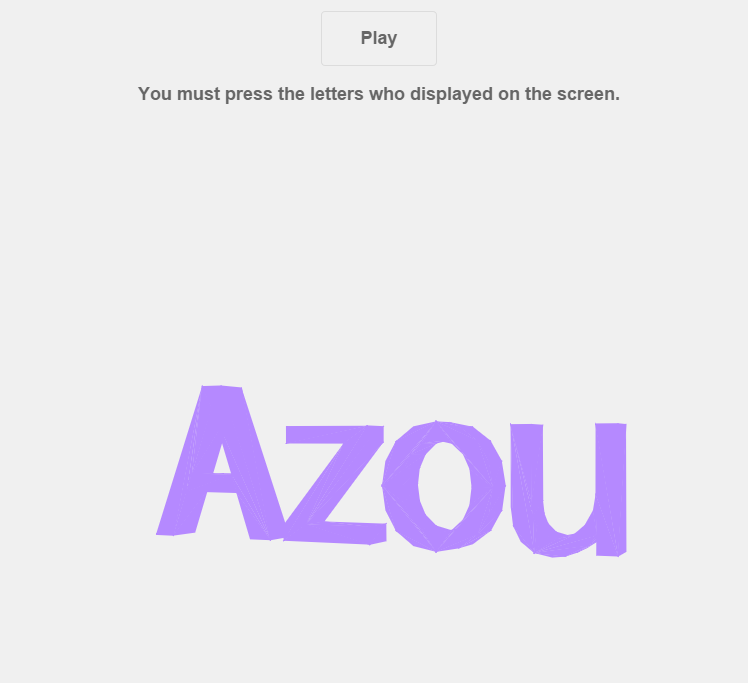
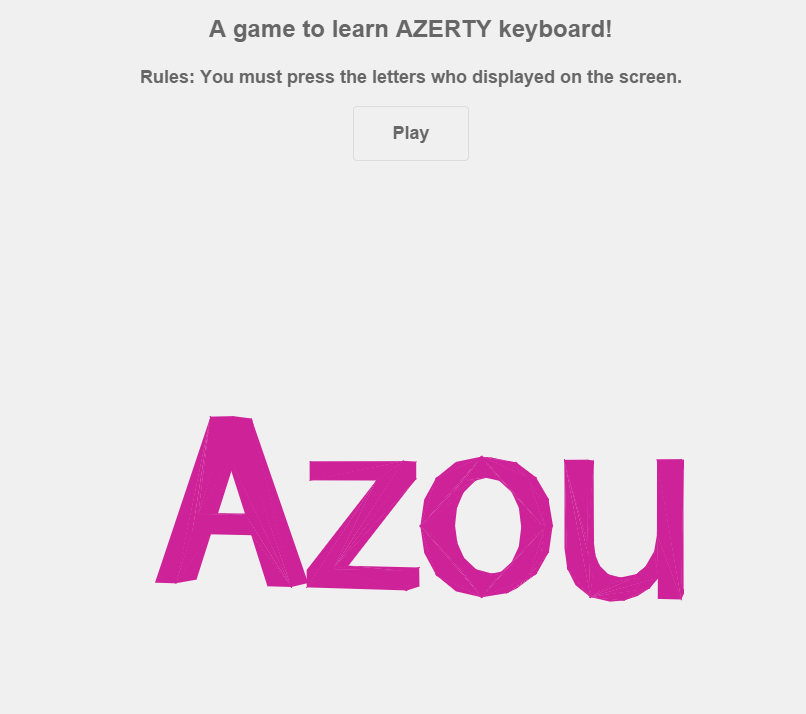
Update CSS and do a beautiful code

Changed region(s): [[0.1845, 0.5534, 0.861, 0.8609], [0.1537, 0.0922, 0.861, 0.2152], [0.246, 0.0307, 0.7687, 0.0615]]

diff --git a/styles/styles.css b/styles/styles.css
@@ -1,1 +1,1 @@
-.letter{position:absolute;width:30px;height:30px;font:700 14px verdana;text-align:center;padding:10px}#score #countdown{right:50px;top:0;position:absolute}#score{font-size:46px;color:#f0f0f0;font-family:futura-pt,sans-serif;position:absolute;width:100%;height:50px;background:#000;left:0;right:0;top:0;padding-left:10px;padding-right:10px}#container{margin:51px auto 0;width:800px;height:600px;position:relative;max-width:60em;color:#2c3e50}body{background-color:#f0f0f0;margin:0;overflow:hidden}p.warning{font-size:60px}p{text-align:center;font-family:Arial;font-size:18px;font-weight:700;color:#666}canvas{cursor:pointer}.btn{background-color:transparent;border-radius:4px;border:1px solid #dcdcdc;color:inherit;display:inline-block;cursor:pointer;padding:16px 38px;text-decoration:none}.btn:active{position:relative;top:1px}.fixed{position:fixed;top:0;right:0;left:0}::-moz-selection{background-color:#2c3e50;color:#f0f0f0}::selection{background-color:#2c3e50;color:#f0f0f0}.forkme a{color:#404040;display:block;font:13px Helvetica Neue,Arial,sans-serif;margin:.05em 0 .075em;padding:.6em;text-align:center;text-decoration:none}.forkme{-webkit-transform:rotate(45deg);-ms-transform:rotate(45deg);transform:rotate(45deg);background-color:#FFF;overflow:hidden;position:fixed;z-index:30;width:240px;right:-60px;top:46px;border-style:solid;border-color:#7B7979;text-align:center}@import url(//fonts.googleapis.com/css?family=Open+Sans:400,600,700,300);.sweet-overlay{background-color:rgba(0,0,0,.4);position:fixed;left:0;right:0;top:0;bottom:0;display:none;z-index:1000}.sweet-alert{background-color:#fff;font-family:'Open Sans',sans-serif;width:478px;padding:17px;border-radius:5px;text-align:center;position:fixed;left:50%;top:50%;margin-left:-256px;margin-top:-200px;overflow:hidden;display:none;z-index:2000}@media all and (max-width:540px){.sweet-alert{width:auto;margin-left:0;margin-right:0;left:15px;right:15px}}.sweet-alert h2{color:#575757;font-size:30px;text-align:center;font-weight:600;text-transform:none;position:relative;margin:25px 0;padding:0;line-height:25px;display:block}.sweet-alert p{color:#797979;font-size:16px;text-align:center;font-weight:300;position:relative;margin:0;padding:0;line-height:normal}.sweet-alert button{background-color:#AEDEF4;color:#fff;border:none;box-shadow:none;font-size:17px;font-weight:500;border-radius:5px;padding:10px 32px;margin:26px 5px 0;cursor:pointer}.sweet-alert button:focus{outline:0;box-shadow:0 0 2px rgba(128,179,235,.5),inset 0 0 0 1px rgba(0,0,0,.05)}.sweet-alert button:hover{background-color:#a1d9f2}.sweet-alert button:active{background-color:#81ccee}.sweet-alert button.cancel{background-color:#D0D0D0}.sweet-alert button.cancel:hover{background-color:#c8c8c8}.sweet-alert button.cancel:active{background-color:#b6b6b6}.sweet-alert button.cancel:focus{box-shadow:rgba(197,205,211,.8) 0 0 2px,rgba(0,0,0,.0470588) 0 0 0 1px inset!important}.sweet-alert button::-moz-focus-inner{border:0}.sweet-alert[data-has-cancel-button=false] button{box-shadow:none!important}.sweet-alert .icon{width:80px;height:80px;border:4px solid gray;border-radius:50%;margin:20px auto;padding:0;position:relative;box-sizing:content-box}.sweet-alert .icon.error{border-color:#F27474}.sweet-alert .icon.error .x-mark{position:relative;display:block}.sweet-alert .icon.error .line{position:absolute;height:5px;width:47px;background-color:#F27474;display:block;top:37px;border-radius:2px}.sweet-alert .icon.error .line.left{-webkit-transform:rotate(45deg);-ms-transform:rotate(45deg);transform:rotate(45deg);left:17px}.sweet-alert .icon.error .line.right{-webkit-transform:rotate(-45deg);-ms-transform:rotate(-45deg);transform:rotate(-45deg);right:16px}.sweet-alert .icon.warning{border-color:#F8BB86}.sweet-alert .icon.warning .body{position:absolute;width:5px;height:47px;left:50%;top:10px;border-radius:2px;margin-left:-2px;background-color:#F8BB86}.sweet-alert .icon.warning .dot{position:absolute;width:7px;height:7px;border-radius:50%;margin-left:-3px;left:50%;bottom:10px;background-color:#F8BB86}.sweet-alert .icon.info{border-color:#C9DAE1}.sweet-alert .icon.info::before{content:"";position:absolute;width:5px;height:29px;left:50%;bottom:17px;border-radius:2px;margin-left:-2px;background-color:#C9DAE1}.sweet-alert .icon.info::after{content:"";position:absolute;width:7px;height:7px;border-radius:50%;margin-left:-3px;top:19px;background-color:#C9DAE1}.sweet-alert .icon.success{border-color:#A5DC86}.sweet-alert .icon.success::after,.sweet-alert .icon.success::before{content:'';position:absolute;width:60px;height:120px;background:#fff;-webkit-transform:rotate(45deg)}.sweet-alert .icon.success::before{border-radius:120px 0 0 120px;top:-7px;left:-33px;-webkit-transform:rotate(-45deg);-ms-transform:rotate(-45deg);transform:rotate(-45deg);-webkit-transform-origin:60px 60px;-ms-transform-origin:60px 60px;transform-origin:60px 60px}.sweet-alert .icon.success::after{border-radius:0 120px 120px 0;top:-11px;left:30px;-webkit-transform:rotate(-45deg);-ms-transform:rotate(-45deg);transform:rotate(-45deg);-webkit-transform-origin:0 60px;-ms-transform-origin:0 60px;transform-origin:0 60px}.sweet-alert .icon.success .placeholder{width:80px;height:80px;border:4px solid rgba(165,220,134,.2);border-radius:50%;box-sizing:content-box;position:absolute;left:-4px;top:-4px;z-index:2}.sweet-alert .icon.success .fix{width:5px;height:90px;background-color:#fff;position:absolute;left:28px;top:8px;z-index:1;-webkit-transform:rotate(-45deg);-ms-transform:rotate(-45deg);transform:rotate(-45deg)}.sweet-alert .icon.success .line{height:5px;background-color:#A5DC86;display:block;border-radius:2px;position:absolute;z-index:2}.sweet-alert .icon.success .line.tip{width:25px;left:14px;top:46px;-webkit-transform:rotate(45deg);-ms-transform:rotate(45deg);transform:rotate(45deg)}.sweet-alert .icon.success .line.long{width:47px;right:8px;top:38px;-webkit-transform:rotate(-45deg);-ms-transform:rotate(-45deg);transform:rotate(-45deg)}.sweet-alert .icon.custom{background-size:contain;border-radius:0;border:none;background-position:center center;background-repeat:no-repeat}@-webkit-keyframes showSweetAlert{0%{transform:scale(0.7);-webkit-transform:scale(0.7)}45%{transform:scale(1.05);-webkit-transform:scale(1.05)}80%{-webkit-transform:scale(0.95);transform:scale(0.95);-webkit-tranform:scale(0.95)}100%{transform:scale(1);-webkit-transform:scale(1)}}@keyframes showSweetAlert{0%{transform:scale(0.7);-webkit-transform:scale(0.7)}45%{transform:scale(1.05);-webkit-transform:scale(1.05)}80%{-webkit-transform:scale(0.95);transform:scale(0.95);-webkit-tranform:scale(0.95)}100%{transform:scale(1);-webkit-transform:scale(1)}}@-webkit-keyframes hideSweetAlert{0%{transform:scale(1);-webkit-transform:scale(1)}100%{transform:scale(0.5);-webkit-transform:scale(0.5)}}@keyframes hideSweetAlert{0%{transform:scale(1);-webkit-transform:scale(1)}100%{transform:scale(0.5);-webkit-transform:scale(0.5)}}.showSweetAlert{-webkit-animation:showSweetAlert .3s;animation:showSweetAlert .3s}.hideSweetAlert{-webkit-animation:hideSweetAlert .2s;animation:hideSweetAlert .2s}@-webkit-keyframes animateSuccessTip{0%,54%{width:0;left:1px;top:19px}70%{width:50px;left:-8px;top:37px}84%{width:17px;left:21px;top:48px}100%{width:25px;left:14px;top:45px}}@keyframes animateSuccessTip{0%,54%{width:0;left:1px;top:19px}70%{width:50px;left:-8px;top:37px}84%{width:17px;left:21px;top:48px}100%{width:25px;left:14px;top:45px}}@-webkit-keyframes animateSuccessLong{0%,65%{width:0;right:46px;top:54px}84%{width:55px;right:0;top:35px}100%{width:47px;right:8px;top:38px}}@keyframes animateSuccessLong{0%,65%{width:0;right:46px;top:54px}84%{width:55px;right:0;top:35px}100%{width:47px;right:8px;top:38px}}@-webkit-keyframes rotatePlaceholder{0%,5%{transform:rotate(-45deg);-webkit-transform:rotate(-45deg)}100%,12%{transform:rotate(-405deg);-webkit-transform:rotate(-405deg)}}@keyframes rotatePlaceholder{0%,5%{transform:rotate(-45deg);-webkit-transform:rotate(-45deg)}100%,12%{transform:rotate(-405deg);-webkit-transform:rotate(-405deg)}}.animateSuccessTip{-webkit-animation:animateSuccessTip .75s;animation:animateSuccessTip .75s}.animateSuccessLong{-webkit-animation:animateSuccessLong .75s;animation:animateSuccessLong .75s}.icon.success.animate::after{-webkit-animation:rotatePlaceholder 4.25s ease-in;animation:rotatePlaceholder 4.25s ease-in}@-webkit-keyframes animateErrorIcon{0%{transform:rotateX(100deg);-webkit-transform:rotateX(100deg);opacity:0}100%{transform:rotateX(0deg);-webkit-transform:rotateX(0deg);opacity:1}}@keyframes animateErrorIcon{0%{transform:rotateX(100deg);-webkit-transform:rotateX(100deg);opacity:0}100%{transform:rotateX(0deg);-webkit-transform:rotateX(0deg);opacity:1}}.animateErrorIcon{-webkit-animation:animateErrorIcon .5s;animation:animateErrorIcon .5s}@-webkit-keyframes animateXMark{0%,50%{transform:scale(0.4);-webkit-transform:scale(0.4);margin-top:26px;opacity:0}80%{transform:scale(1.15);-webkit-transform:scale(1.15);margin-top:-6px}100%{transform:scale(1);-webkit-transform:scale(1);margin-top:0;opacity:1}}@keyframes animateXMark{0%,50%{transform:scale(0.4);-webkit-transform:scale(0.4);margin-top:26px;opacity:0}80%{transform:scale(1.15);-webkit-transform:scale(1.15);margin-top:-6px}100%{transform:scale(1);-webkit-transform:scale(1);margin-top:0;opacity:1}}.animateXMark{-webkit-animation:animateXMark .5s;animation:animateXMark .5s}@-webkit-keyframes pulseWarning{0%{border-color:#F8D486}100%{border-color:#F8BB86}}@keyframes pulseWarning{0%{border-color:#F8D486}100%{border-color:#F8BB86}}.pulseWarning{-webkit-animation:pulseWarning .75s infinite alternate;animation:pulseWarning .75s infinite alternate}@-webkit-keyframes pulseWarningIns{0%{background-color:#F8D486}100%{background-color:#F8BB86}}@keyframes pulseWarningIns{0%{background-color:#F8D486}100%{background-color:#F8BB86}}.pulseWarningIns{-webkit-animation:pulseWarningIns .75s infinite alternate;animation:pulseWarningIns .75s infinite alternate}
+.letter{position:absolute;width:30px;height:30px;font:700 14px verdana;text-align:center;padding:10px}#score #countdown{right:50px;top:0;position:absolute}#score{font-size:46px;color:#f0f0f0;font-family:futura-pt,sans-serif;position:absolute;width:100%;height:50px;background:#000;left:0;right:0;top:0;padding-left:10px;padding-right:10px}#container{margin:51px auto 0;width:800px;height:600px;position:relative;max-width:60em;color:#2c3e50}body{background-color:#f0f0f0;margin:0;overflow:hidden}p.warning{font-size:60px}p{text-align:center;font-family:Arial;font-size:18px;font-weight:700;color:#666}.big{font-size:24px}canvas{cursor:pointer}.btn{background-color:transparent;border-radius:4px;border:1px solid #dcdcdc;color:inherit;display:inline-block;cursor:pointer;padding:16px 38px;text-decoration:none}.btn:active{position:relative;top:1px}.fixed{position:fixed;top:0;right:0;left:0}::-moz-selection{background-color:#2c3e50;color:#f0f0f0}::selection{background-color:#2c3e50;color:#f0f0f0}.forkme a{color:#404040;display:block;font:13px Helvetica Neue,Arial,sans-serif;margin:.05em 0 .075em;padding:.6em;text-align:center;text-decoration:none}.forkme{-webkit-transform:rotate(45deg);-ms-transform:rotate(45deg);transform:rotate(45deg);background-color:#FFF;overflow:hidden;position:fixed;z-index:30;width:240px;right:-60px;top:46px;border-style:solid;border-color:#7B7979;text-align:center}@import url(//fonts.googleapis.com/css?family=Open+Sans:400,600,700,300);.sweet-overlay{background-color:rgba(0,0,0,.4);position:fixed;left:0;right:0;top:0;bottom:0;display:none;z-index:1000}.sweet-alert{background-color:#fff;font-family:'Open Sans',sans-serif;width:478px;padding:17px;text-align:center;position:fixed;left:50%;top:50%;margin-left:-256px;margin-top:-200px;overflow:hidden;display:none;z-index:2000}@media all and (max-width:540px){.sweet-alert{width:auto;margin-left:0;margin-right:0;left:15px;right:15px}}.sweet-alert h2{color:#575757;font-size:30px;text-align:center;font-weight:600;text-transform:none;position:relative;margin:25px 0;padding:0;line-height:25px;display:block}.sweet-alert p{color:#797979;font-size:16px;text-align:center;font-weight:300;position:relative;margin:0;padding:0;line-height:normal}.sweet-alert button{background-color:#AEDEF4;color:#fff;border:none;box-shadow:none;font-size:17px;font-weight:500;padding:10px 32px;margin:26px 5px 0;cursor:pointer}.sweet-alert button:focus{outline:0;box-shadow:0 0 2px rgba(128,179,235,.5),inset 0 0 0 1px rgba(0,0,0,.05)}.sweet-alert button:hover{background-color:#a1d9f2}.sweet-alert button:active{background-color:#81ccee}.sweet-alert button.cancel{background-color:#D0D0D0}.sweet-alert button.cancel:hover{background-color:#c8c8c8}.sweet-alert button.cancel:active{background-color:#b6b6b6}.sweet-alert button.cancel:focus{box-shadow:rgba(197,205,211,.8) 0 0 2px,rgba(0,0,0,.0470588) 0 0 0 1px inset!important}.sweet-alert button::-moz-focus-inner{border:0}.sweet-alert[data-has-cancel-button=false] button{box-shadow:none!important}.sweet-alert .icon{width:80px;height:80px;border:4px solid gray;border-radius:50%;margin:20px auto;padding:0;position:relative;box-sizing:content-box}.sweet-alert .icon.error{border-color:#F27474}.sweet-alert .icon.error .x-mark{position:relative;display:block}.sweet-alert .icon.error .line{position:absolute;height:5px;width:47px;background-color:#F27474;display:block;top:37px;border-radius:2px}.sweet-alert .icon.error .line.left{-webkit-transform:rotate(45deg);-ms-transform:rotate(45deg);transform:rotate(45deg);left:17px}.sweet-alert .icon.error .line.right{-webkit-transform:rotate(-45deg);-ms-transform:rotate(-45deg);transform:rotate(-45deg);right:16px}.sweet-alert .icon.warning{border-color:#F8BB86}.sweet-alert .icon.warning .body{position:absolute;width:5px;height:47px;left:50%;top:10px;border-radius:2px;margin-left:-2px;background-color:#F8BB86}.sweet-alert .icon.warning .dot{position:absolute;width:7px;height:7px;border-radius:50%;margin-left:-3px;left:50%;bottom:10px;background-color:#F8BB86}.sweet-alert .icon.info{border-color:#C9DAE1}.sweet-alert .icon.info::before{content:"";position:absolute;width:5px;height:29px;left:50%;bottom:17px;border-radius:2px;margin-left:-2px;background-color:#C9DAE1}.sweet-alert .icon.info::after{content:"";position:absolute;width:7px;height:7px;border-radius:50%;margin-left:-3px;top:19px;background-color:#C9DAE1}.sweet-alert .icon.success{border-color:#A5DC86}.sweet-alert .icon.success::after,.sweet-alert .icon.success::before{content:'';position:absolute;width:60px;height:120px;background:#fff;-webkit-transform:rotate(45deg)}.sweet-alert .icon.success::before{border-radius:120px 0 0 120px;top:-7px;left:-33px;-webkit-transform:rotate(-45deg);-ms-transform:rotate(-45deg);transform:rotate(-45deg);-webkit-transform-origin:60px 60px;-ms-transform-origin:60px 60px;transform-origin:60px 60px}.sweet-alert .icon.success::after{border-radius:0 120px 120px 0;top:-11px;left:30px;-webkit-transform:rotate(-45deg);-ms-transform:rotate(-45deg);transform:rotate(-45deg);-webkit-transform-origin:0 60px;-ms-transform-origin:0 60px;transform-origin:0 60px}.sweet-alert .icon.success .placeholder{width:80px;height:80px;border:4px solid rgba(165,220,134,.2);border-radius:50%;box-sizing:content-box;position:absolute;left:-4px;top:-4px;z-index:2}.sweet-alert .icon.success .fix{width:5px;height:90px;background-color:#fff;position:absolute;left:28px;top:8px;z-index:1;-webkit-transform:rotate(-45deg);-ms-transform:rotate(-45deg);transform:rotate(-45deg)}.sweet-alert .icon.success .line{height:5px;background-color:#A5DC86;display:block;border-radius:2px;position:absolute;z-index:2}.sweet-alert .icon.success .line.tip{width:25px;left:14px;top:46px;-webkit-transform:rotate(45deg);-ms-transform:rotate(45deg);transform:rotate(45deg)}.sweet-alert .icon.success .line.long{width:47px;right:8px;top:38px;-webkit-transform:rotate(-45deg);-ms-transform:rotate(-45deg);transform:rotate(-45deg)}.sweet-alert .icon.custom{background-size:contain;border-radius:0;border:none;background-position:center center;background-repeat:no-repeat}@-webkit-keyframes showSweetAlert{0%{transform:scale(0.7);-webkit-transform:scale(0.7)}45%{transform:scale(1.05);-webkit-transform:scale(1.05)}80%{-webkit-transform:scale(0.95);transform:scale(0.95);-webkit-tranform:scale(0.95)}100%{transform:scale(1);-webkit-transform:scale(1)}}@keyframes showSweetAlert{0%{transform:scale(0.7);-webkit-transform:scale(0.7)}45%{transform:scale(1.05);-webkit-transform:scale(1.05)}80%{-webkit-transform:scale(0.95);transform:scale(0.95);-webkit-tranform:scale(0.95)}100%{transform:scale(1);-webkit-transform:scale(1)}}@-webkit-keyframes hideSweetAlert{0%{transform:scale(1);-webkit-transform:scale(1)}100%{transform:scale(0.5);-webkit-transform:scale(0.5)}}@keyframes hideSweetAlert{0%{transform:scale(1);-webkit-transform:scale(1)}100%{transform:scale(0.5);-webkit-transform:scale(0.5)}}.showSweetAlert{-webkit-animation:showSweetAlert .3s;animation:showSweetAlert .3s}.hideSweetAlert{-webkit-animation:hideSweetAlert .2s;animation:hideSweetAlert .2s}@-webkit-keyframes animateSuccessTip{0%,54%{width:0;left:1px;top:19px}70%{width:50px;left:-8px;top:37px}84%{width:17px;left:21px;top:48px}100%{width:25px;left:14px;top:45px}}@keyframes animateSuccessTip{0%,54%{width:0;left:1px;top:19px}70%{width:50px;left:-8px;top:37px}84%{width:17px;left:21px;top:48px}100%{width:25px;left:14px;top:45px}}@-webkit-keyframes animateSuccessLong{0%,65%{width:0;right:46px;top:54px}84%{width:55px;right:0;top:35px}100%{width:47px;right:8px;top:38px}}@keyframes animateSuccessLong{0%,65%{width:0;right:46px;top:54px}84%{width:55px;right:0;top:35px}100%{width:47px;right:8px;top:38px}}@-webkit-keyframes rotatePlaceholder{0%,5%{transform:rotate(-45deg);-webkit-transform:rotate(-45deg)}100%,12%{transform:rotate(-405deg);-webkit-transform:rotate(-405deg)}}@keyframes rotatePlaceholder{0%,5%{transform:rotate(-45deg);-webkit-transform:rotate(-45deg)}100%,12%{transform:rotate(-405deg);-webkit-transform:rotate(-405deg)}}.animateSuccessTip{-webkit-animation:animateSuccessTip .75s;animation:animateSuccessTip .75s}.animateSuccessLong{-webkit-animation:animateSuccessLong .75s;animation:animateSuccessLong .75s}.icon.success.animate::after{-webkit-animation:rotatePlaceholder 4.25s ease-in;animation:rotatePlaceholder 4.25s ease-in}@-webkit-keyframes animateErrorIcon{0%{transform:rotateX(100deg);-webkit-transform:rotateX(100deg);opacity:0}100%{transform:rotateX(0deg);-webkit-transform:rotateX(0deg);opacity:1}}@keyframes animateErrorIcon{0%{transform:rotateX(100deg);-webkit-transform:rotateX(100deg);opacity:0}100%{transform:rotateX(0deg);-webkit-transform:rotateX(0deg);opacity:1}}.animateErrorIcon{-webkit-animation:animateErrorIcon .5s;animation:animateErrorIcon .5s}@-webkit-keyframes animateXMark{0%,50%{transform:scale(0.4);-webkit-transform:scale(0.4);margin-top:26px;opacity:0}80%{transform:scale(1.15);-webkit-transform:scale(1.15);margin-top:-6px}100%{transform:scale(1);-webkit-transform:scale(1);margin-top:0;opacity:1}}@keyframes animateXMark{0%,50%{transform:scale(0.4);-webkit-transform:scale(0.4);margin-top:26px;opacity:0}80%{transform:scale(1.15);-webkit-transform:scale(1.15);margin-top:-6px}100%{transform:scale(1);-webkit-transform:scale(1);margin-top:0;opacity:1}}.animateXMark{-webkit-animation:animateXMark .5s;animation:animateXMark .5s}@-webkit-keyframes pulseWarning{0%{border-color:#F8D486}100%{border-color:#F8BB86}}@keyframes pulseWarning{0%{border-color:#F8D486}100%{border-color:#F8BB86}}.pulseWarning{-webkit-animation:pulseWarning .75s infinite alternate;animation:pulseWarning .75s infinite alternate}@-webkit-keyframes pulseWarningIns{0%{background-color:#F8D486}100%{background-color:#F8BB86}}@keyframes pulseWarningIns{0%{background-color:#F8D486}100%{background-color:#F8BB86}}.pulseWarningIns{-webkit-animation:pulseWarningIns .75s infinite alternate;animation:pulseWarningIns .75s infinite alternate}

diff --git a/index.html b/index.html
@@ -1,1 +1,1 @@
-<!DOCTYPE html><html lang="en"><head><title>Azou | The Game</title><meta charset="utf-8"><meta name="viewport" content="width=device-width,user-scalable=no,minimum-scale=1,maximum-scale=1"><link href="/favicon.ico" rel="shortcut icon" type="image/x-icon"><link rel="stylesheet" href="styles/styles.css"><meta name="author" content="Cedced19"><meta name="twitter:cars" content="summary"><meta name="twitter:title" content="Cedced19"><meta name="twitter:image" content="/profile.png"><meta name="twitter:site" content="@cedced19"><meta name="twitter:author" content="@cedced19"><meta name="author" content="Cedced19"><meta name="description" content="A game to learn how to use keyboard."><meta property="og:type" content="website"><meta property="og:image" content="/profile.png"><meta property="og:language" content="fr_FR"><meta property="og:url" content="cedced19.github.io"><link href="//plus.google.com/104855167193751168501/" rel="publisher"><meta name="msvalidate.01" content="7AA9997055DFFA5FA75B150DB285F647"><meta name="google-site-verification" content="daG8-WfmzTnxEOZ0gvyKhFVPyqGcp_MuANWkyM8THK8"></head><body class="home"><noscript><p class="warning">You haven't enabe Javascript!</p></noscript><div class="fixed"><p><a href="game.html" class="btn">Play</a></p><p>You must press the letters who displayed on the screen.</p></div><div class="forkme"><a href="https://github.com/cedced19/Azou">Fork me on Github</a></div><script src="scripts/three.min.js"></script><script src="scripts/typeface.min.js"></script><script src="scripts/home.js"></script></body></html>
+<!DOCTYPE html><html lang="en"><head><title>Azou | The Game</title><meta charset="utf-8"><meta name="viewport" content="width=device-width,user-scalable=no,minimum-scale=1,maximum-scale=1"><link href="/favicon.ico" rel="shortcut icon" type="image/x-icon"><link rel="stylesheet" href="styles/styles.css"><meta name="author" content="Cedced19"><meta name="twitter:cars" content="summary"><meta name="twitter:title" content="Cedced19"><meta name="twitter:image" content="/profile.png"><meta name="twitter:site" content="@cedced19"><meta name="twitter:author" content="@cedced19"><meta name="author" content="Cedced19"><meta name="description" content="A game to learn how to use keyboard."><meta property="og:type" content="website"><meta property="og:image" content="/profile.png"><meta property="og:language" content="fr_FR"><meta property="og:url" content="cedced19.github.io"><link href="//plus.google.com/104855167193751168501/" rel="publisher"><meta name="msvalidate.01" content="7AA9997055DFFA5FA75B150DB285F647"><meta name="google-site-verification" content="daG8-WfmzTnxEOZ0gvyKhFVPyqGcp_MuANWkyM8THK8"></head><body class="home"><noscript><p class="warning">You haven't enabe Javascript!</p></noscript><div class="fixed"><p class="big">A game to learn AZERTY keyboard!</p><p>Rules: You must press the letters who displayed on the screen.</p><p><a href="game.html" class="btn">Play</a></p></div><div class="forkme"><a href="https://github.com/cedced19/Azou">Fork me on Github</a></div><script src="scripts/three.min.js"></script><script src="scripts/typeface.min.js"></script><script src="scripts/home.js"></script></body></html>

diff --git a/dev/scripts/game.js b/dev/scripts/game.js
@@ -10,11 +10,11 @@
             secondes = 0;
             $('#countdown').html('0');
             swal({
-              title: "End Of game",
-              text: "You have " + score + " points.",
-              type: "success",
+              title: 'End Of game',
+              text: 'You have ' + score + ' points.',
+              type: 'success',
               showCancelButton: true,
-              confirmButtonText: "Play again !",
+              confirmButtonText: 'Play again !',
               closeOnConfirm: true
             },
             function(){

diff --git a/dev/index.html b/dev/index.html
@@ -29,8 +29,9 @@
     <body class="home">
         <noscript><p class="warning">You haven't enabe Javascript!</p></noscript>
         <div class="fixed">
+            <p class="big">A game to learn AZERTY keyboard!</p>
+            <p>Rules: You must press the letters who displayed on the screen.</p>
             <p><a href="game.html" class="btn">Play</a></p>
-            <p>You must press the letters who displayed on the screen.</p>
         </div>
         <div class="forkme">
             <a href="https://github.com/cedced19/Azou">Fork me on Github</a>

diff --git a/dev/scripts/home.js b/dev/scripts/home.js
@@ -22,7 +22,7 @@
                 scene = new THREE.Scene();
 
 
-                var theText = "Azou";
+                var theText = 'Azou';
 
                 var hash = document.location.hash.substr( 1 );
 
@@ -37,7 +37,7 @@
                     size: 80,
                     height: 20,
                     curveSegments: 2,
-                    font: "helvetiker"
+                    font: 'helvetiker'
 
                 });
 

diff --git a/dev/styles/sweet-alert.css b/dev/styles/sweet-alert.css
@@ -14,7 +14,6 @@
   font-family: 'Open Sans', sans-serif;
   width: 478px;
   padding: 17px;
-  border-radius: 5px;
   text-align: center;
   position: fixed;
   left: 50%;
@@ -58,7 +57,6 @@
     box-shadow: none;
     font-size: 17px;
     font-weight: 500;
-    border-radius: 5px;
     padding: 10px 32px;
     margin: 26px 5px 0 5px;
     cursor: pointer; }

diff --git a/dev/styles/home.css b/dev/styles/home.css
@@ -13,6 +13,9 @@ p{
     font-weight:bold;
     color:#666;
 }
+.big{
+    font-size:24px;
+}
 canvas {
     cursor:pointer;
 }

diff --git a/README.md b/README.md
@@ -1,4 +1,7 @@
 #Azou
 
-[Play](http://cedced19.github.io/Azou/)
-![](demo.png)
+A game to learn AZERTY keyboard!
+
+__Rules:__ You must press the letters who displayed on the screen.
+
+[![](demo.png)](http://cedced19.github.io/Azou/)
